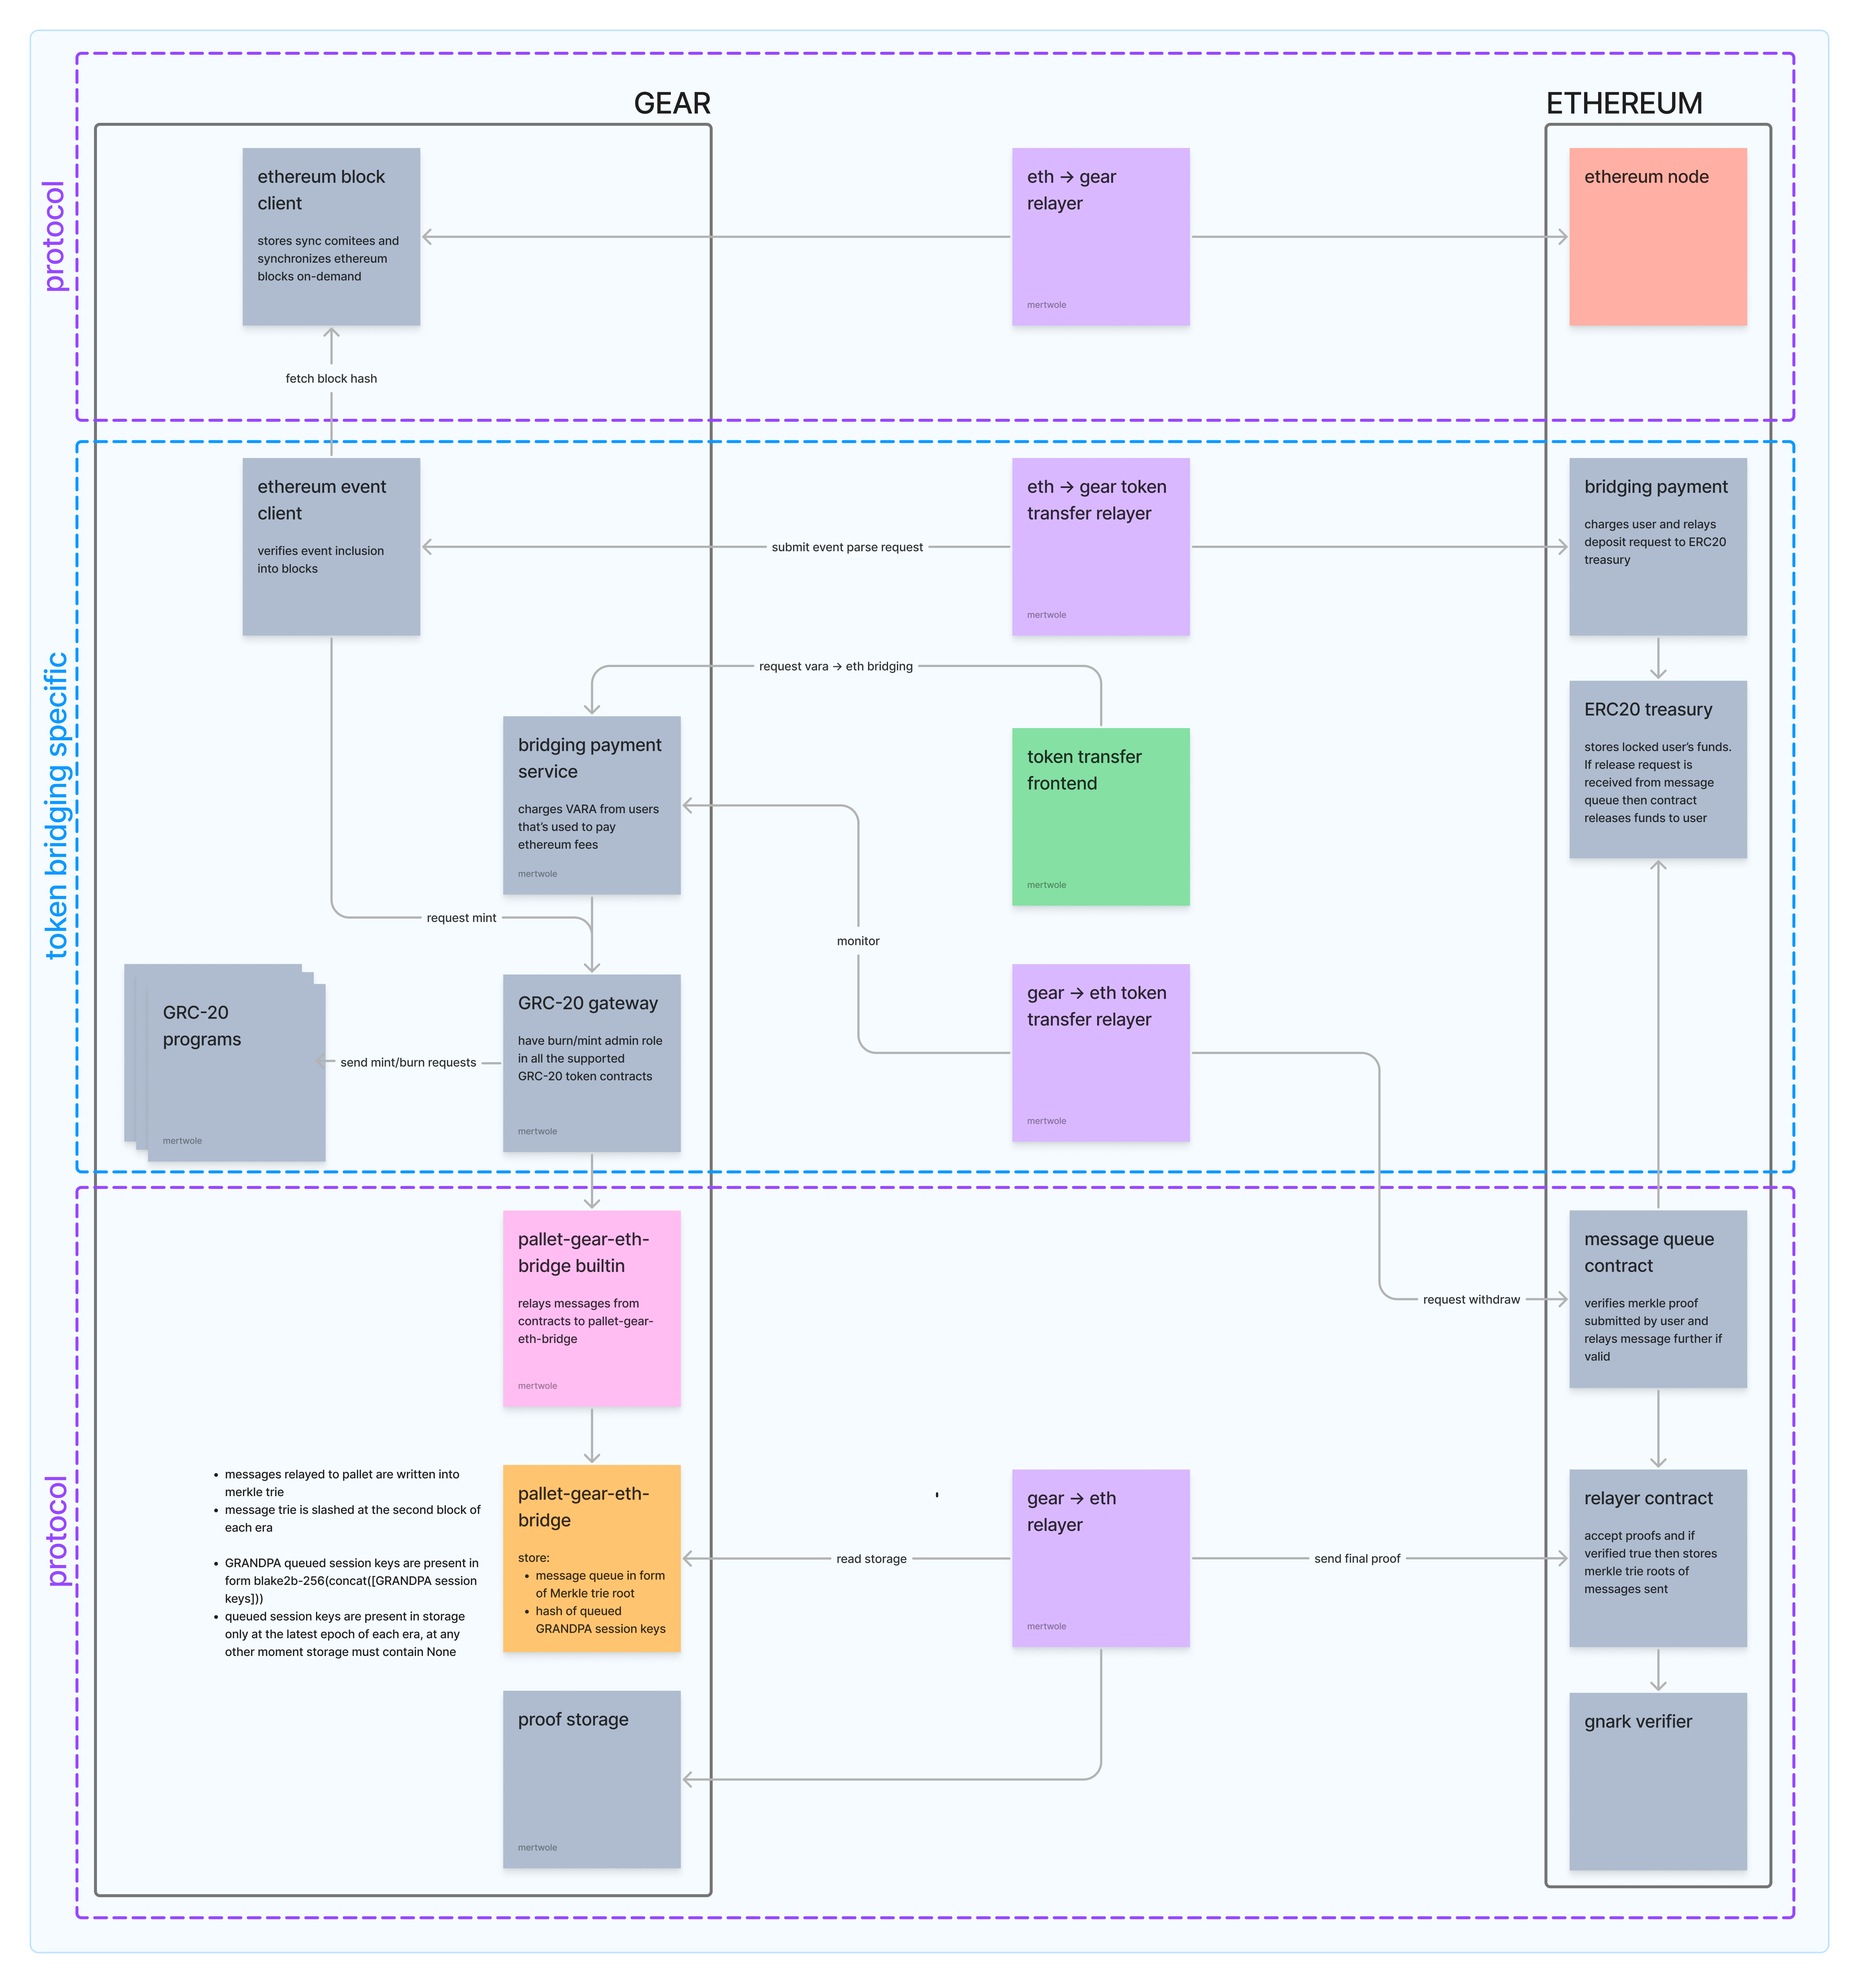
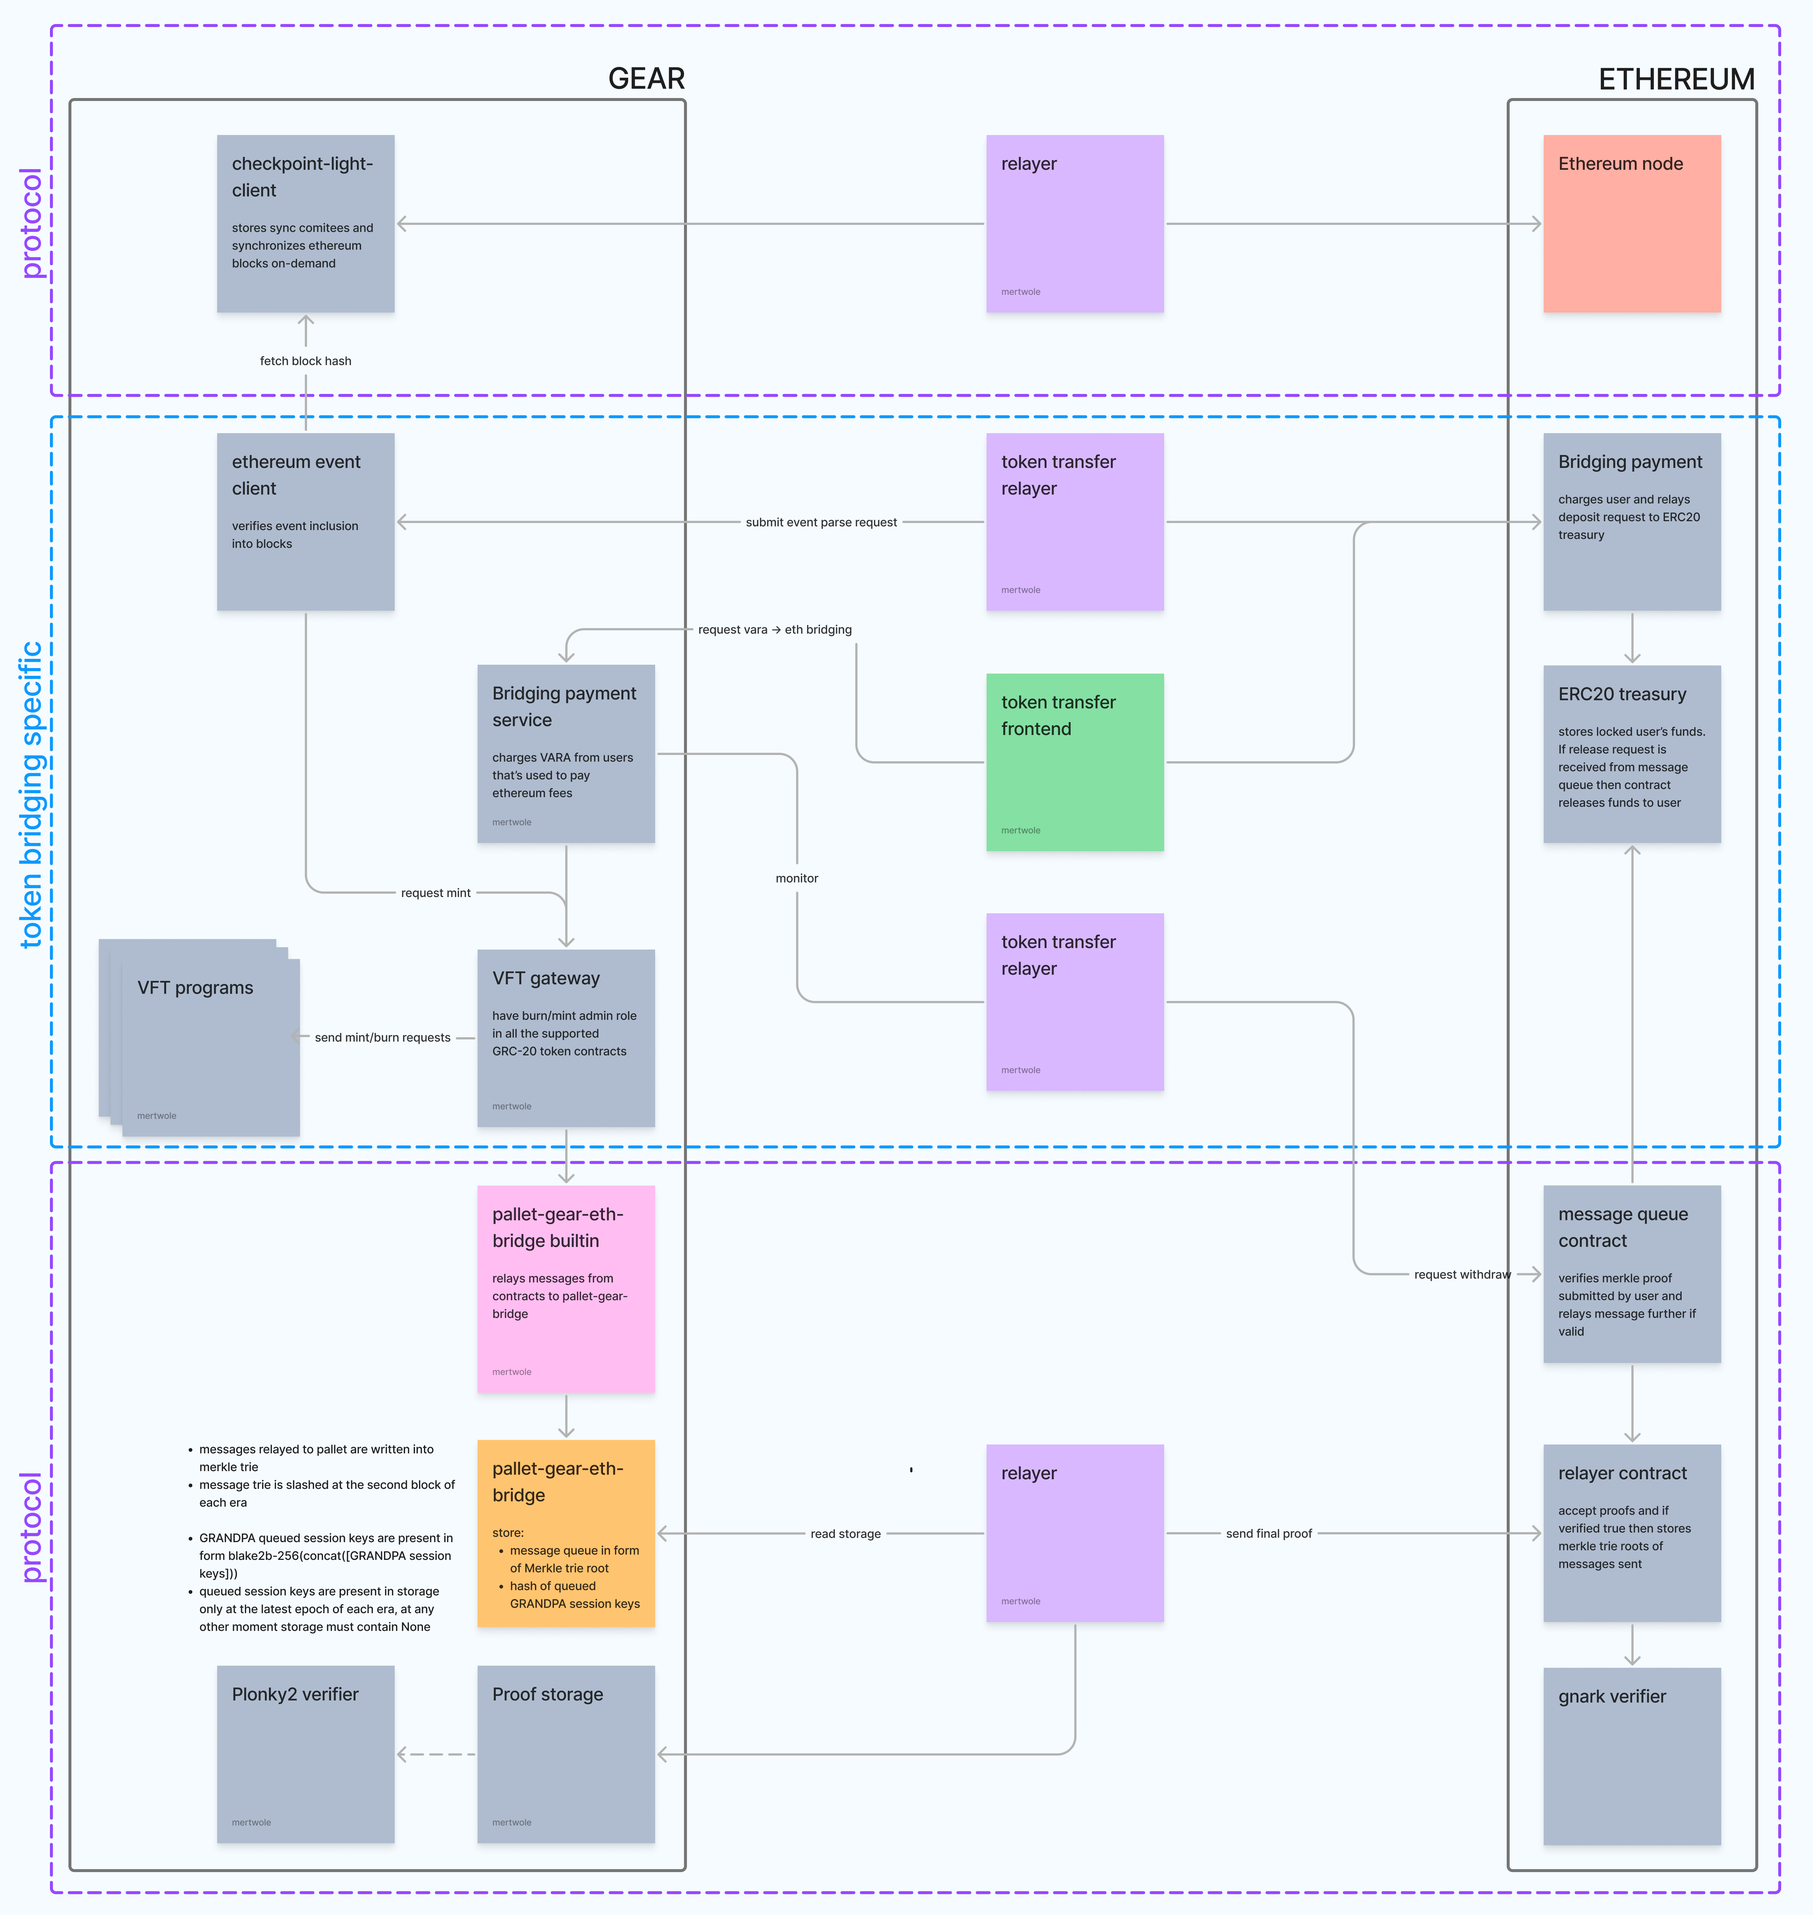
Update naming

diff --git a/README.md b/README.md
@@ -29,7 +29,7 @@ This repository contains the implementation of a token bridging protocol built o
 #### Protocol part
 
 - **Pallet-Gear-Eth-Bridge Built-in Actor**: a [Built-in Actor](https://wiki.gear-tech.io/docs/gear/features/builtin-actors) - the entry point into the generic bridging protocol. Receives messages from any actor on the Gear network and relays them to `pallet-gear-eth-bridge`.
-- **Pallet-Gear-Eth-Bridge**: Receives messages from the `pallet-gear-bridges` built-in actor and stores them in the binary Merkle trie. This Merkle trie gets slashed at the end of each `ERA`. Also stores and updates hashed `GRANDPA` authority set.
+- **Pallet-Gear-Eth-Bridge**: Receives messages from the `pallet-gear-eth-bridge` built-in actor and stores them in the binary Merkle trie. This Merkle trie gets slashed at the end of each `ERA`. Also stores and updates hashed `GRANDPA` authority set.
 - **Gear -> Eth Relayer**: Reads Gear state, generates ZK-proofs, and submits them to Ethereum. Capable of creating two types of ZK-proofs: proof of authority set changes and proof of inclusion of Merkle trie root into the storage of `pallet-gear-eth-bridge`. Proofs of authority set changes are intermediate and stored in on-chain `proof storage` while proofs of Merkle trie root inclusion are submitted to Ethereum.
 - **Proof Storage**: Works as on-chain proof database and stores intermediate proofs generated by `gear -> eth relayer`.
 - **Relayer Contract**: Accepts proofs of Merkle trie root inclusion and, if they're valid, stores Merkle trie roots in memory.
@@ -40,9 +40,9 @@ This repository contains the implementation of a token bridging protocol built o
 
 #### Token transfer part
 
-- **GRC-20**: A program capable of transferring, burning, and minting `GRC-20` tokens. It repeats the implementation of the `ERC20` standard on the Gear network, the standard implementation `GRC-20` can be found [here](https://github.com/gear-foundation/standards/tree/master/gear-erc20).
-- **GRC-20 Gateway**: Receives `GRC-20` tokens from users, burns them, and emits a message to the `pallet-gear-eth-bridge` built-in actor. This message contains information about which token is being bridged, how much of it, and the recipient of funds on the Ethereum network. Also manages `Eth -> Gear` token transfers by verifying ethereum events using `ethereum event client` program.
-- **ERC20 Treasury**: A treasury that accepts user funds and releases them. Release can only be triggered by a message relayed over the bridge from the `GRC-20 gateway`.
+- **VFT**: A program capable of transferring, burning, and minting `vft` tokens. It repeats the implementation of the `ERC20` standard on the Gear network, the standard implementation `vft` can be found [here](https://github.com/gear-foundation/standards/tree/master).
+- **VFT Gateway**: Receives `vft` tokens from users, burns them, and emits a message to the `pallet-gear-eth-bridge` built-in actor. This message contains information about which token is being bridged, how much of it, and the recipient of funds on the Ethereum network. Also manages `Eth -> Gear` token transfers by verifying ethereum events using `ethereum event client` program.
+- **ERC20 Treasury**: A treasury that accepts user funds and releases them. Release can only be triggered by a message relayed over the bridge from the `vft gateway`.
 - **Bridging Payment**: Program on Gear and smart-contract on Ethereum that have the same functions. When bridging request is sent to them, they collect fees and relay this request to the corresponding smart-contract/program responsible of executing this request. Then some `token transfer relayer` can observe events signaling that request have been processed and fee is paid and process this request on the other chain, using its own funds as tx fees. `Bridging payment` services are fully in control of relayer that've deployed them, so to perform bridging using them one should trust the relayer that've deployed them.
 - **Ethereum Event client**: Program on Gear that's capable of verifying that some event was included into some block. To check validity of the block it requests data from `ethereum block client`.
 - **Gear -> Eth Token Transfer Relayer** and **Eth -> Gear Token Transfer Relayer**: These relayers hook to the events produced by `bridging payment` services and perform cross-chain actions to guarantee message delivery. For example, `gear -> eth token transfer relayer` collects bridging fees from user on Gear. When merkle root that contain this message will be relayed to Ethereum, this relayer will send transaction to the `message queue contract` that will trigger transfer from `ERC20 treasury` to the user.
@@ -55,9 +55,9 @@ This repository contains the implementation of a token bridging protocol built o
 - `frontend` submits `approve` call to the `vft` program. Approve should allow `vft-gateway` to spend amount of tokens that user have requested to bridge.
 - `frontend` submits user request to the `bridging-payment`.
 - `bridging-payment` takes fee and submits a message to the `vft-gateway` to initiate bridging.
-- The `vft-gateway` burns `vft` tokens and emits a message to the `pallet-gear-bridge` built-in actor.
-- The `pallet-gear-bridge` built-in actor relays the message to `pallet-gear-bridge`.
-- The `pallet-gear-bridge` stores the message in a Merkle trie.
+- The `vft-gateway` burns `vft` tokens and emits a message to the `pallet-gear-eth-bridge` built-in actor.
+- The `pallet-gear-eth-bridge` built-in actor relays the message to `pallet-gear-eth-bridge`.
+- The `pallet-gear-eth-bridge` stores the message in a Merkle trie.
 - Eventually, the `relayer` (or another party) relays the message to the `relayer contract`, and it gets stored there.
 - `message relayer` sees that user message was relayed and submits a Merkle proof of inclusion to the `message queue contract`.
 - The `message queue contract` reads the Merkle root from the `relayer contract`, checks the Merkle proof, and relays the message to the `ERC20 treasury`.
